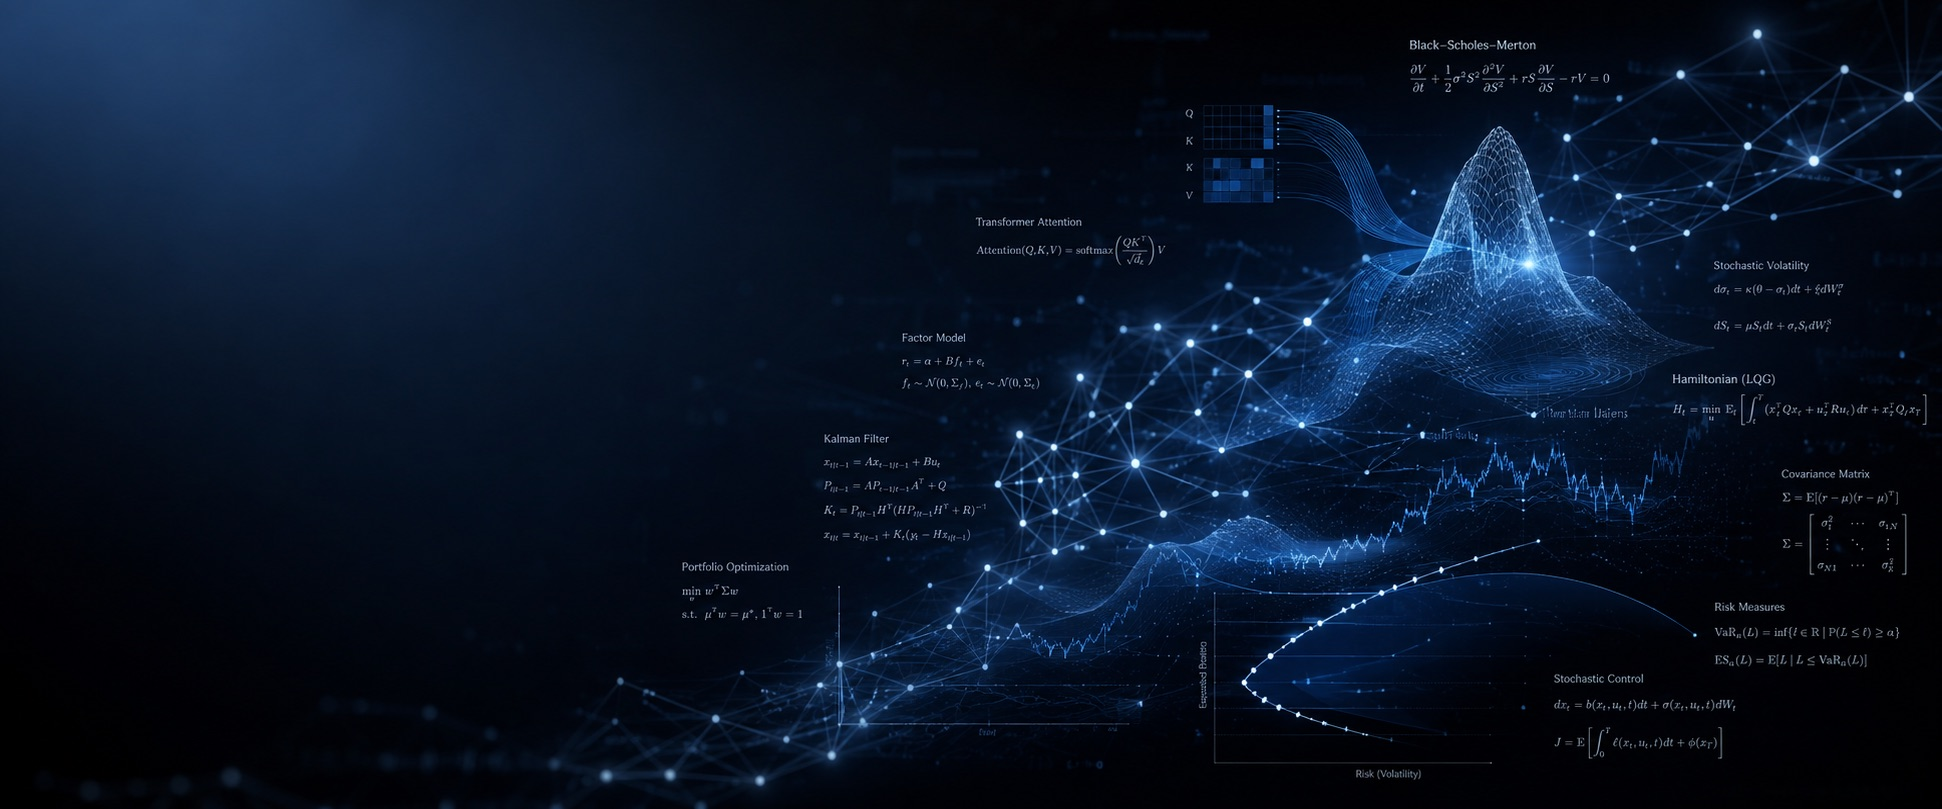
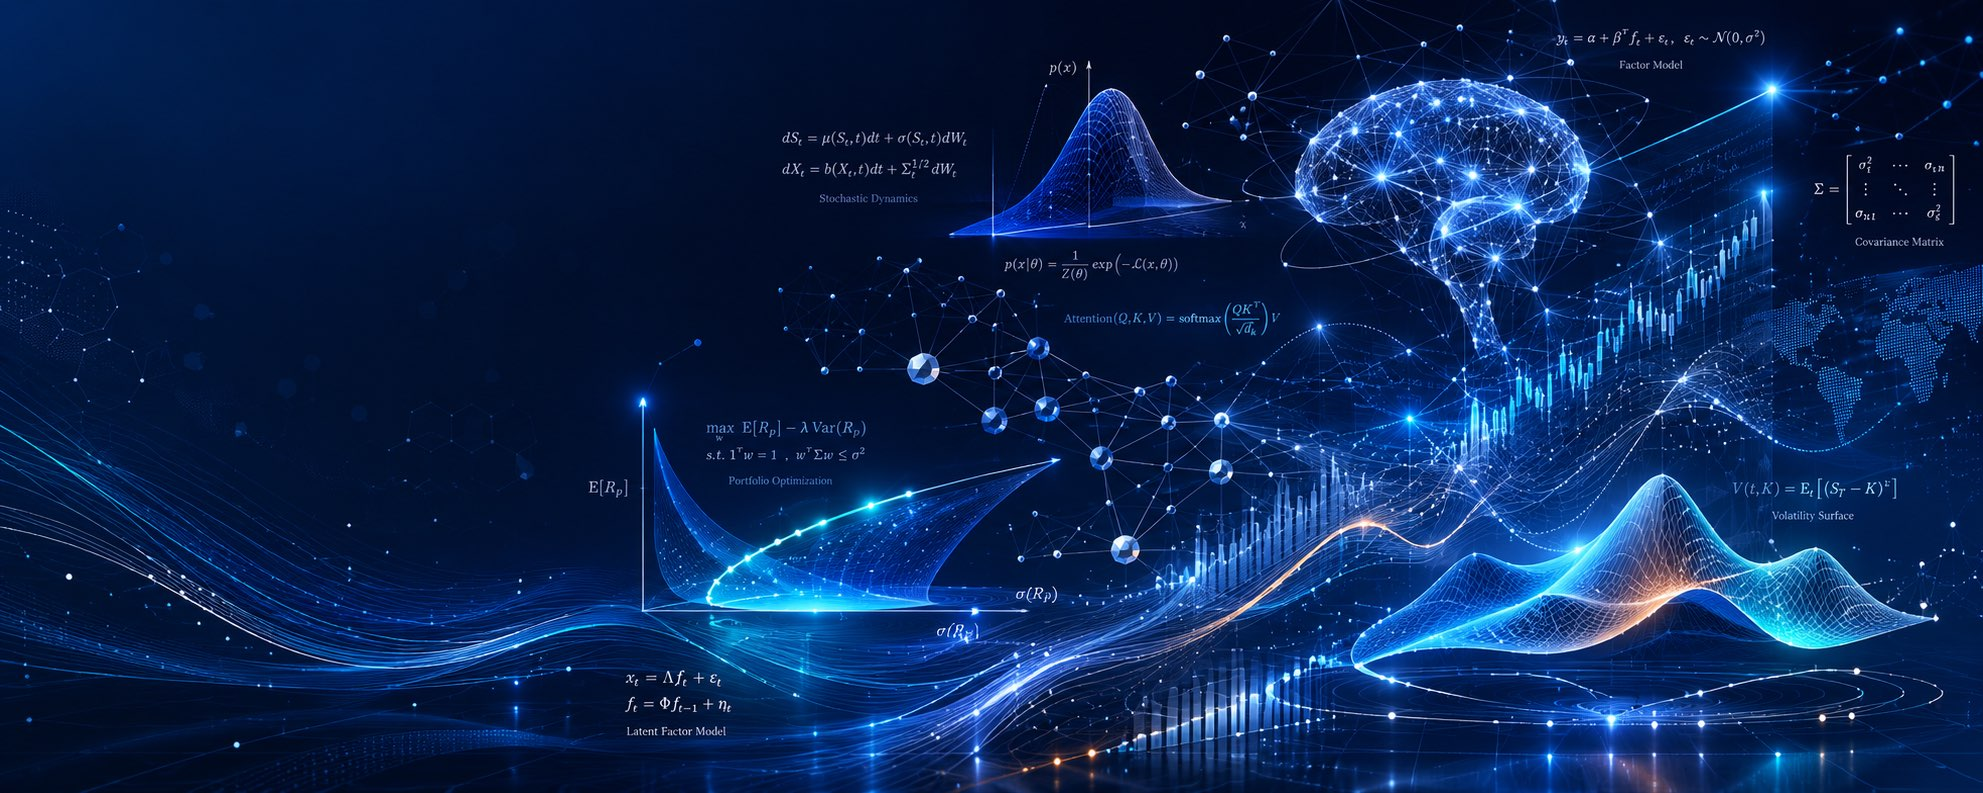
Update hero background to new image
Regenerate optimized background.jpg (296KB) from the new source PNG and
cache-bust the image URL (?v=2) plus stylesheet (v=7).

diff --git a/index.html b/index.html
@@ -18,7 +18,7 @@
   <link rel="preconnect" href="https://fonts.googleapis.com">
   <link rel="preconnect" href="https://fonts.gstatic.com" crossorigin>
   <link rel="stylesheet" href="https://fonts.googleapis.com/css2?family=Open+Sans:ital,wght@0,400;0,600;0,700;1,400&display=swap">
-  <link rel="stylesheet" href="./styles.css?v=6">
+  <link rel="stylesheet" href="./styles.css?v=7">
 
   <link rel="icon" type="image/png" href="./img/icon.png">
   <link rel="apple-touch-icon" type="image/png" href="./img/icon-192.png">

diff --git a/styles.css b/styles.css
@@ -120,7 +120,7 @@ a:hover { color: var(--accent-dark); text-decoration: underline; }
   padding: 72px 24px 56px;
   background-image:
     linear-gradient(rgba(255,255,255,0.62), rgba(255,255,255,0.78)),
-    url('./img/background.jpg');
+    url('./img/background.jpg?v=2');
   background-size: cover;
   background-position: center;
   background-repeat: no-repeat;